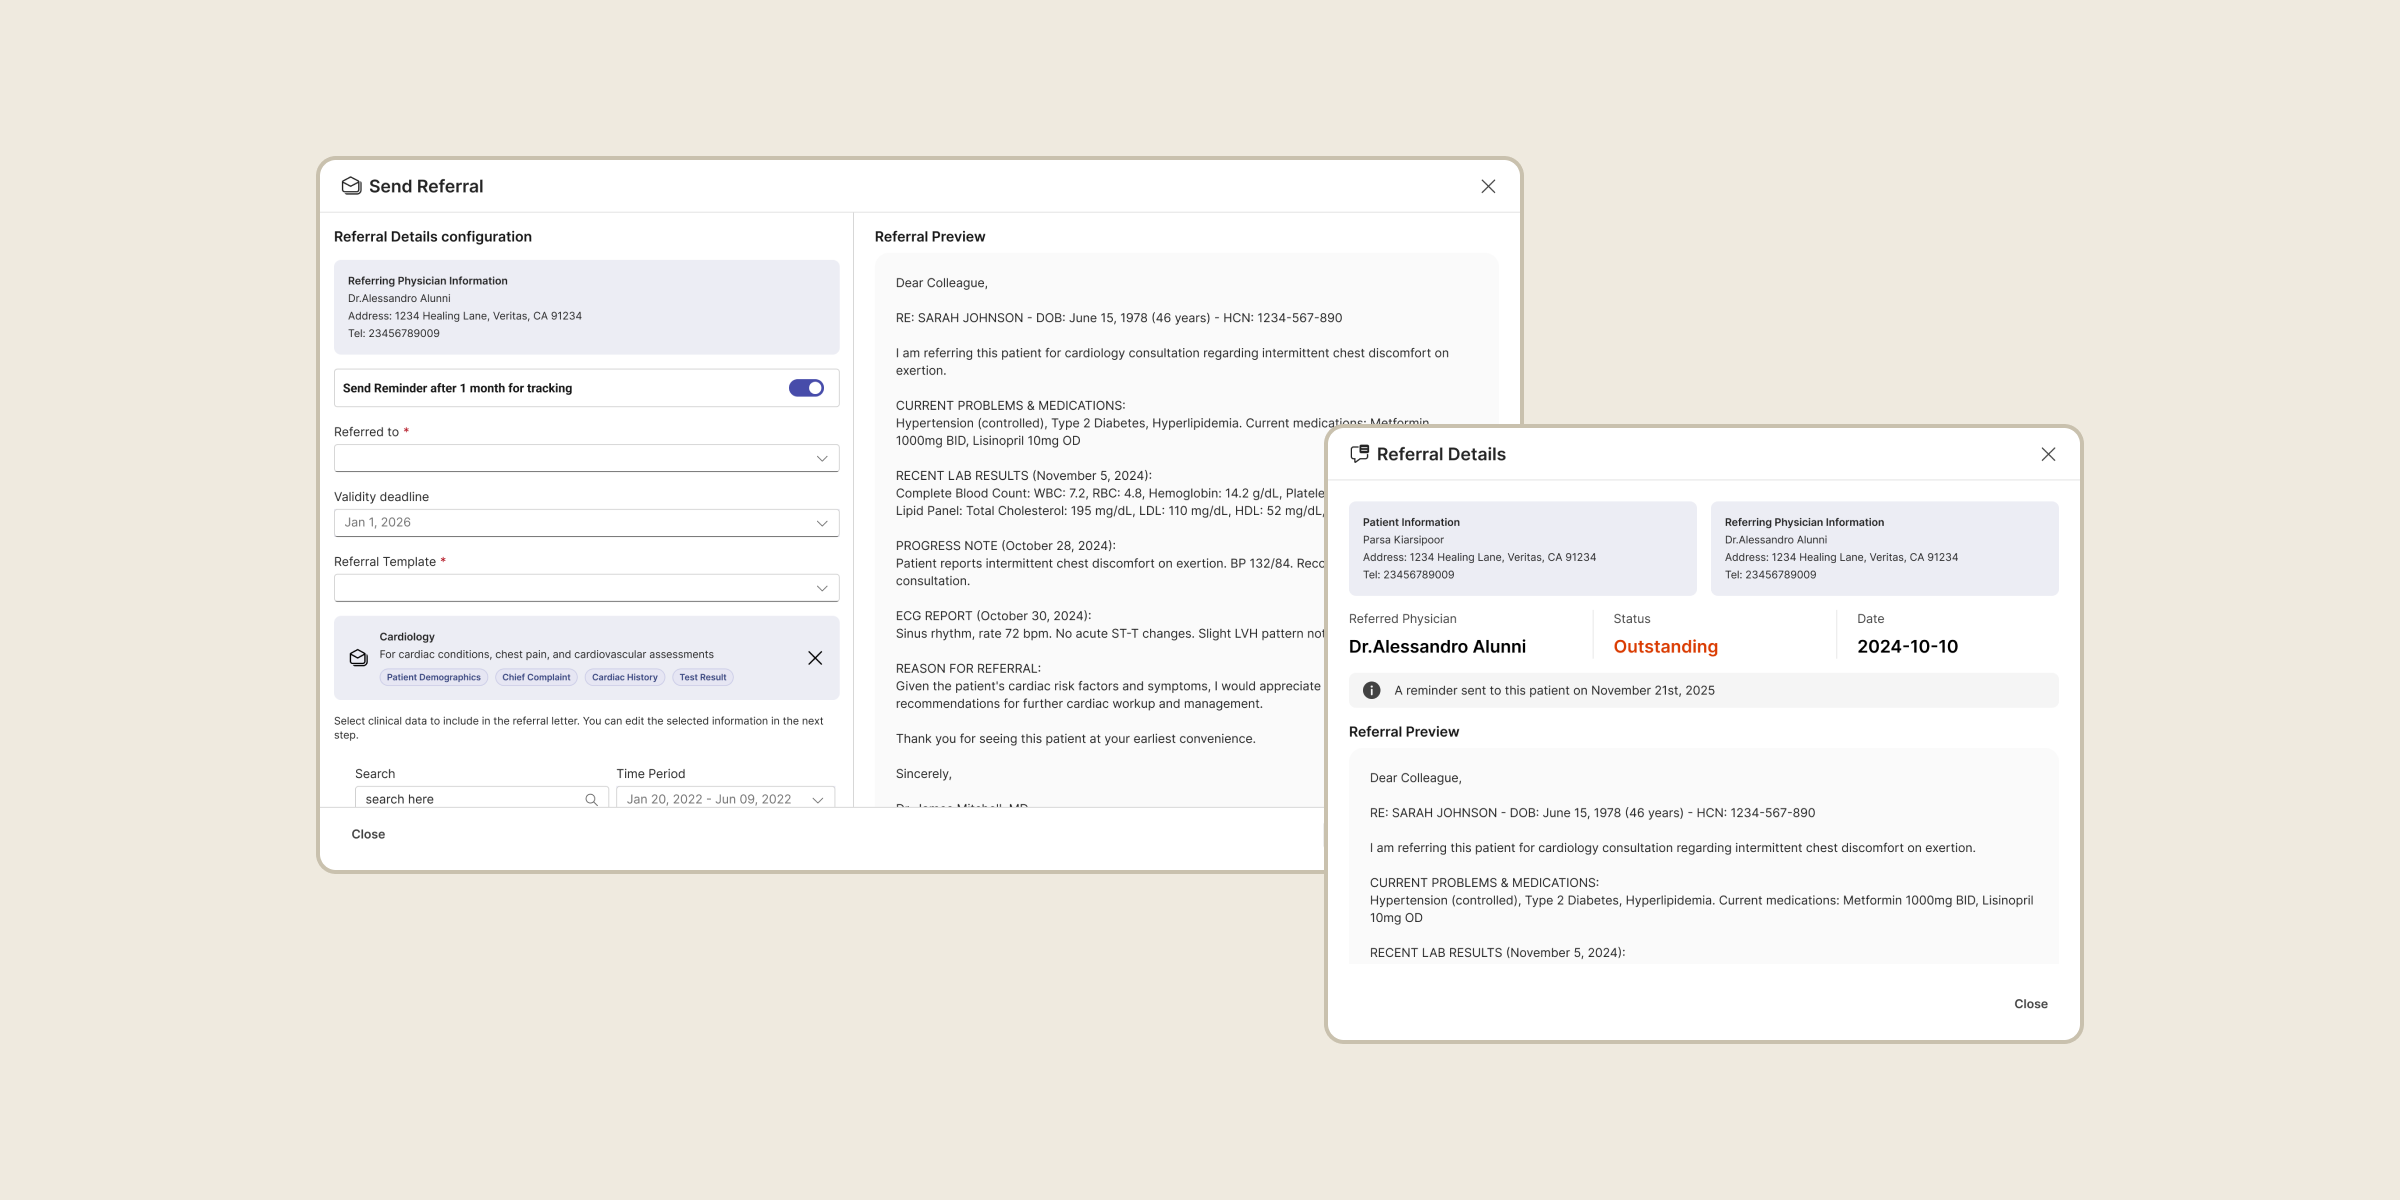
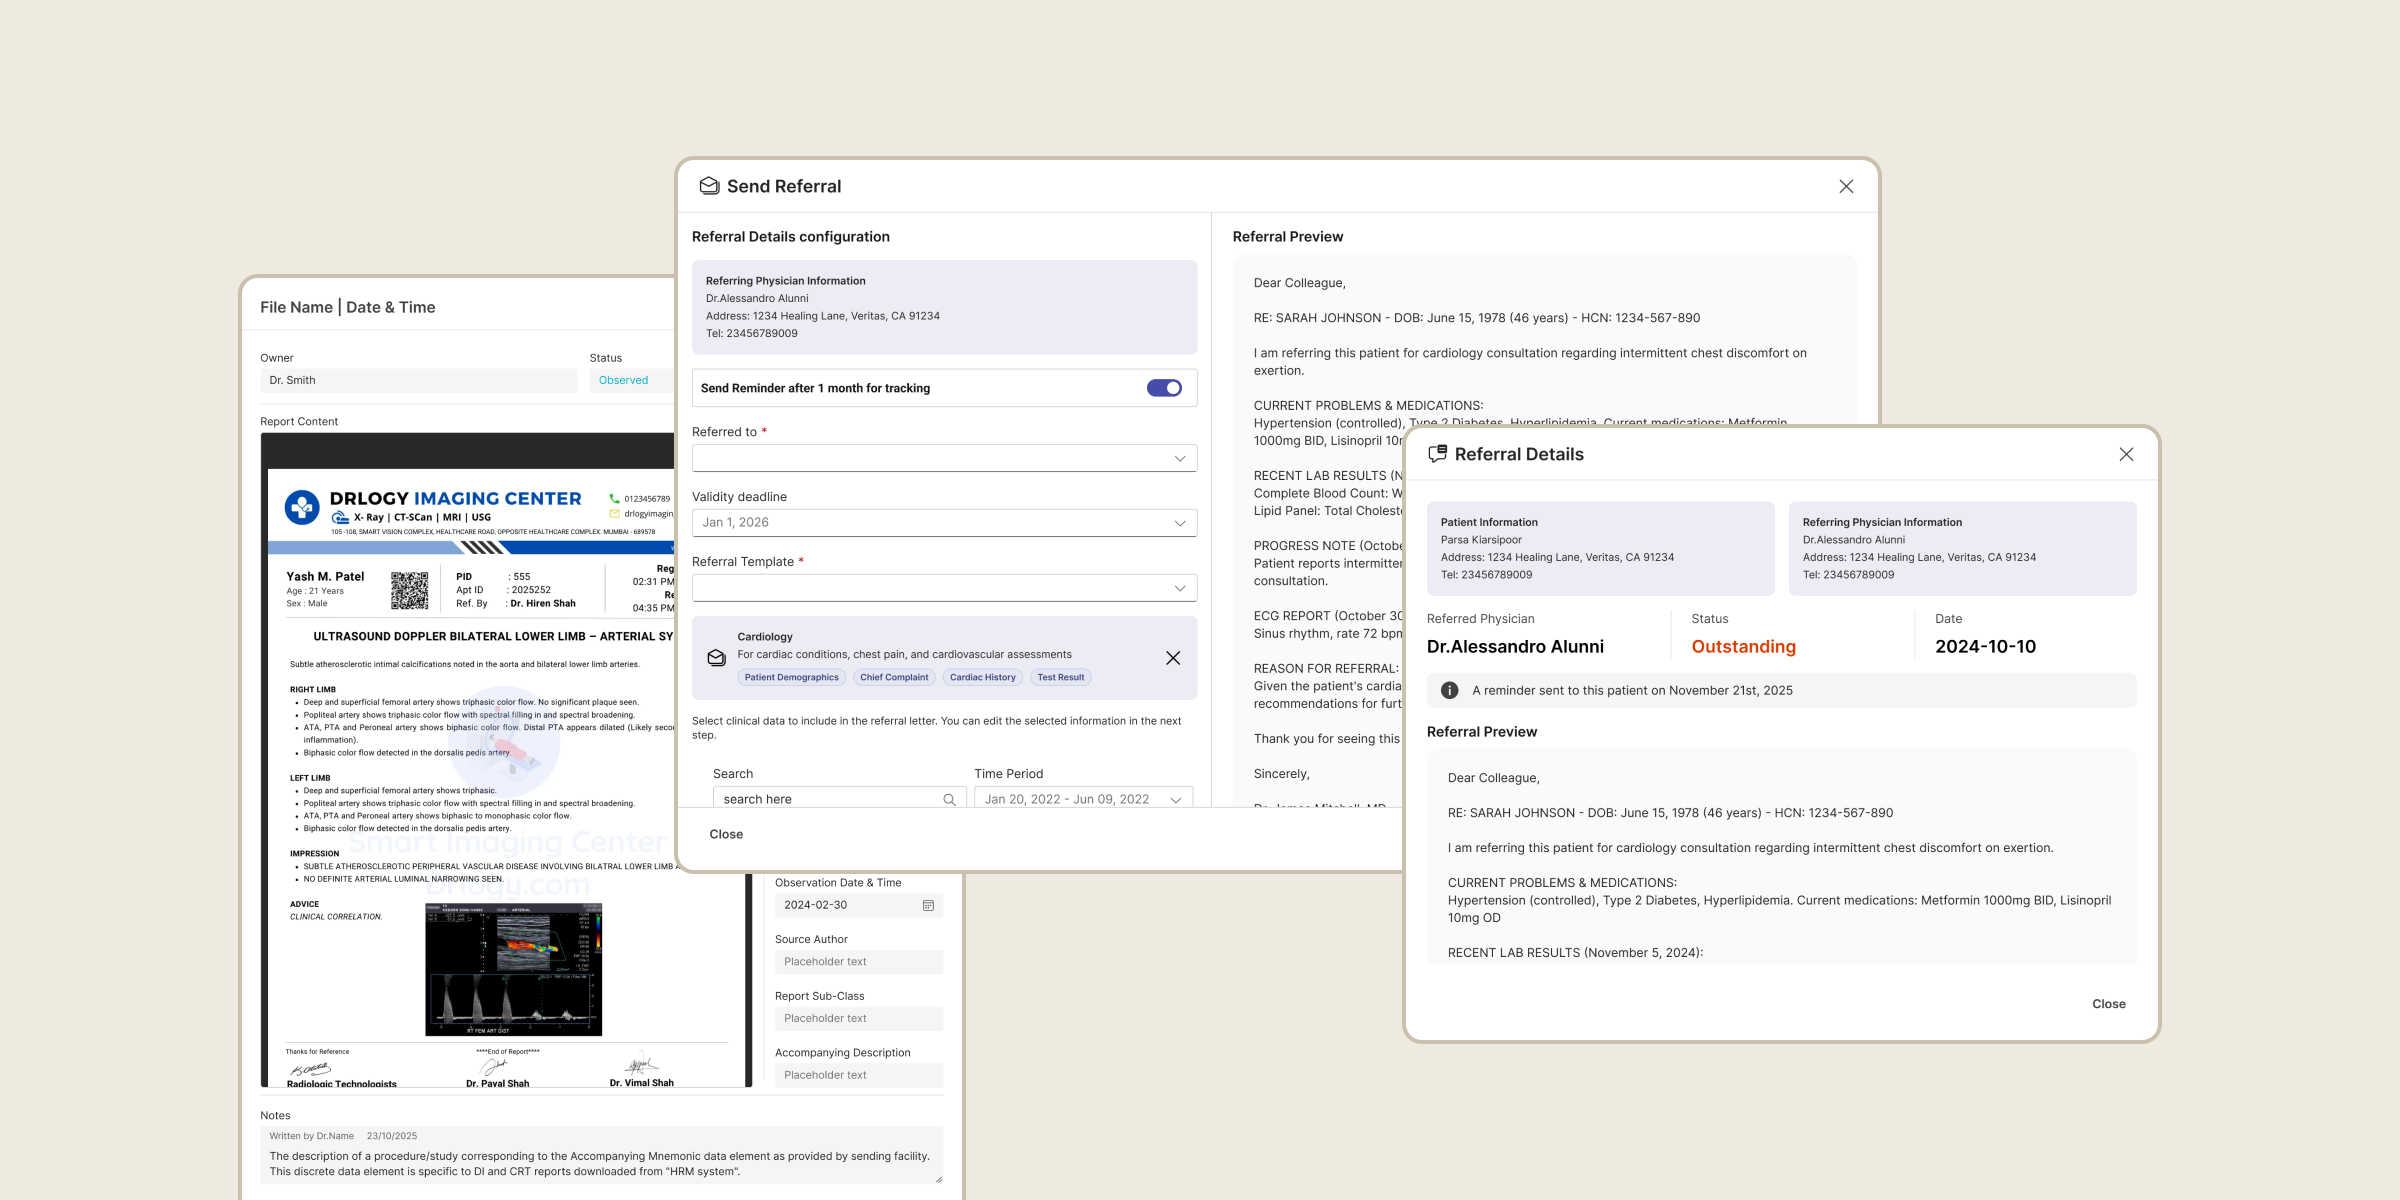
Update files from Figma Make

Changed region(s): [[0.0938, 0.1233, 0.9062, 1.0], [0.7188, 0.4317, 0.8125, 0.4933]]

diff --git a/src/content/works/docsplain-ai-doctor.ts b/src/content/works/docsplain-ai-doctor.ts
@@ -167,8 +167,8 @@ const work: Work = {
           type: "figures",
           items: [
             {
-              src: "/assets/docsplain-admin-panel.png",
-              caption: "Admin panel: patient recall management and staff scheduling settings",
+              src: "/assets/docsplain-messaging.png",
+              caption: "Internal messaging, ticketing and clinical team coordination",
               aspect: "2/1",
             },
           ],
@@ -178,18 +178,8 @@ const work: Work = {
           items: [
             {
               src: "/assets/docsplain-referrals.png",
-              caption: "Specialist referrals configuration, preview and tracking details",
+              caption: "Specialist referrals, diagnostic imaging integrations, and tracking details",
               aspect: "2/1",
-            },
-          ],
-        },
-        {
-          type: "figures",
-          items: [
-            {
-              caption:
-                "Mobile web views of the main flows, 3 screens side by side · 2400 × 1350 PNG",
-              aspect: "16/9",
             },
           ],
         },
@@ -222,9 +212,10 @@ const work: Work = {
       ],
       figures: [
         {
+          src: "/assets/docsplain-regulation-reports.png",
           caption:
-            "Access-level settings and a log or report screen, 2 screens side by side · 2400 × 1350 PNG",
-          aspect: "16/9",
+            "Access-level settings and query reports configured for regulation compliance",
+          aspect: "2/1",
         },
       ],
     },
